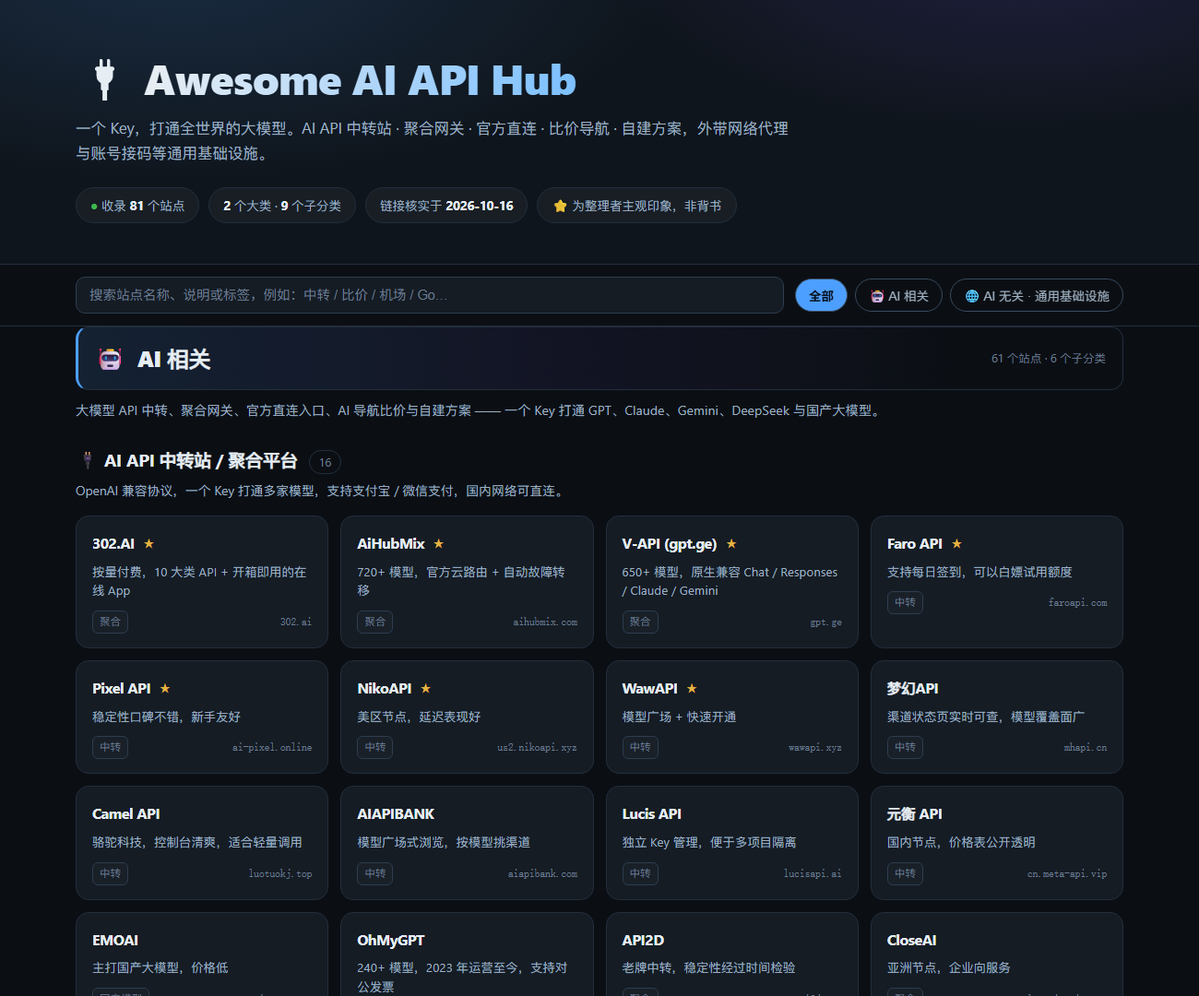
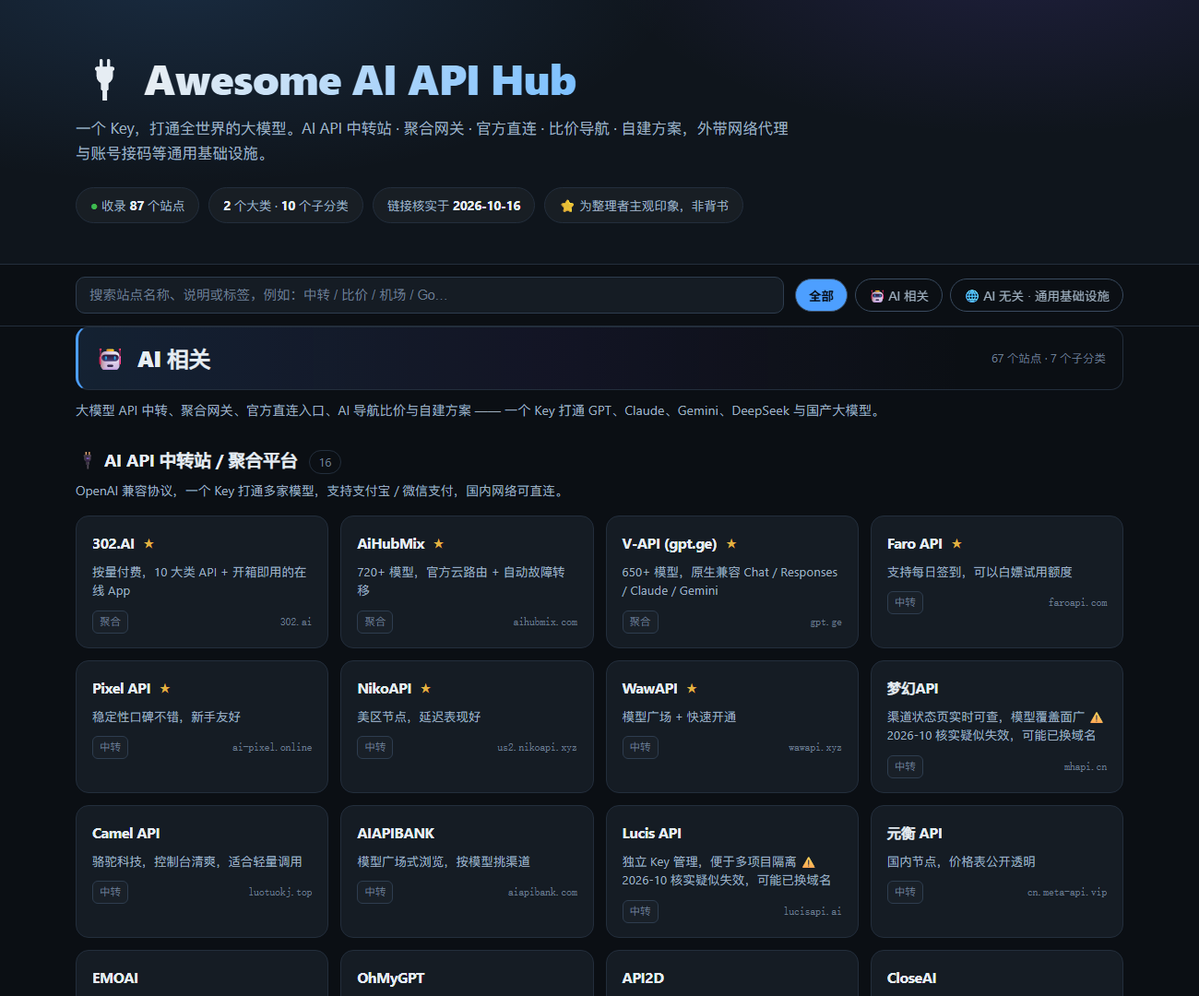
feat: 新增「AI API 检测 · 验真」子分类，收录 7 个掺水/掉包检测站
- 新增检测分类：禾维 AI、真测 Ztest、API-CHECK、模型检测站、API Ranking、
  火眼金睛识AI、智知 API 纯度检测（开源）
- 禾维 AI 从「导航比价」移入「检测验真」（其核心功能为真假检测）
- 全部新增链接经代理实测 200 可达
- 站点总数 81 -> 87，子分类 9 -> 10
- README 中英同步，检测章节附「用临时 Key 测试」安全提示

diff --git a/index.html b/index.html
@@ -146,8 +146,8 @@ footer a:hover{text-decoration:underline}
     <h1>🔌 Awesome AI API Hub</h1>
     <p class="sub">一个 Key，打通全世界的大模型。AI API 中转站 · 聚合网关 · 官方直连 · 比价导航 · 自建方案，外带网络代理与账号接码等通用基础设施。</p>
     <div class="stats">
-      <span class="stat"><span class="dot">●</span> 收录 <b>81</b> 个站点</span>
-      <span class="stat"><b>2</b> 个大类 · <b>9</b> 个子分类</span>
+      <span class="stat"><span class="dot">●</span> 收录 <b>87</b> 个站点</span>
+      <span class="stat"><b>2</b> 个大类 · <b>10</b> 个子分类</span>
       <span class="stat">链接核实于 <b>2026-10-16</b></span>
       <span class="stat">⭐ 为整理者主观印象，非背书</span>
     </div>
@@ -179,7 +179,7 @@ footer a:hover{text-decoration:underline}
 </footer>
 
 <script>
-const DATA = {"meta": {"name": "Awesome AI API Hub", "updated": "2026-10-16", "repo": "https://github.com/Han-maker-wp/awesome-ai-api-hub"}, "groups": [{"id": "ai", "title": "AI 相关", "icon": "🤖", "desc": "大模型 API 中转、聚合网关、官方直连入口、AI 导航比价与自建方案 —— 一个 Key 打通 GPT、Claude、Gemini、DeepSeek 与国产大模型。", "categories": [{"id": "relay", "title": "AI API 中转站 / 聚合平台", "icon": "🔌", "desc": "OpenAI 兼容协议，一个 Key 打通多家模型，支持支付宝 / 微信支付，国内网络可直连。", "items": [{"name": "302.AI", "url": "https://302.ai/", "tag": "聚合", "note": "按量付费，10 大类 API + 开箱即用的在线 App", "star": true}, {"name": "AiHubMix", "url": "https://aihubmix.com/", "tag": "聚合", "note": "720+ 模型，官方云路由 + 自动故障转移", "star": true}, {"name": "V-API (gpt.ge)", "url": "https://gpt.ge/", "tag": "聚合", "note": "650+ 模型，原生兼容 Chat / Responses / Claude / Gemini", "star": true}, {"name": "Faro API", "url": "https://faroapi.com/pricing", "tag": "中转", "note": "支持每日签到，可以白嫖试用额度", "star": true}, {"name": "Pixel API", "url": "https://ai-pixel.online/dashboard", "tag": "中转", "note": "稳定性口碑不错，新手友好", "star": true}, {"name": "NikoAPI", "url": "https://us2.nikoapi.xyz/wallet", "tag": "中转", "note": "美区节点，延迟表现好", "star": true}, {"name": "WawAPI", "url": "https://wawapi.xyz/model-square", "tag": "中转", "note": "模型广场 + 快速开通", "star": true}, {"name": "梦幻API", "url": "https://mhapi.cn/available-channels", "tag": "中转", "note": "渠道状态页实时可查，模型覆盖面广 ⚠ 2026-10 核实疑似失效，可能已换域名", "star": false}, {"name": "Camel API", "url": "https://luotuokj.top/dashboard", "tag": "中转", "note": "骆驼科技，控制台清爽，适合轻量调用", "star": false}, {"name": "AIAPIBANK", "url": "https://aiapibank.com/", "tag": "中转", "note": "模型广场式浏览，按模型挑渠道", "star": false}, {"name": "Lucis API", "url": "https://www.lucisapi.ai/keys", "tag": "中转", "note": "独立 Key 管理，便于多项目隔离 ⚠ 2026-10 核实疑似失效，可能已换域名", "star": false}, {"name": "元衡 API", "url": "https://cn.meta-api.vip/pricing", "tag": "中转", "note": "国内节点，价格表公开透明", "star": false}, {"name": "EMOAI", "url": "https://api.emooo.cc/dashboard", "tag": "国产模型", "note": "主打国产大模型，价格低", "star": false}, {"name": "OhMyGPT", "url": "https://www.ohmygpt.com/", "tag": "聚合", "note": "240+ 模型，2023 年运营至今，支持对公发票", "star": false}, {"name": "API2D", "url": "https://api2d.com/", "tag": "聚合", "note": "老牌中转，稳定性经过时间检验", "star": false}, {"name": "CloseAI", "url": "https://www.closeai-asia.com/", "tag": "聚合", "note": "亚洲节点，企业向服务", "star": false}]}, {"id": "official-cn", "title": "官方直连 · 国内大模型厂商", "icon": "🏢", "desc": "厂商官方控制台。新用户普遍送免费额度，价格最实、最稳，缺点是需要实名认证。", "items": [{"name": "阿里云百炼", "url": "https://bailian.console.aliyun.com/", "tag": "通义", "note": "通义千问全系 + 大量三方模型", "star": true}, {"name": "火山方舟", "url": "https://console.volcengine.com/ark", "tag": "豆包", "note": "豆包系列，价格激进，吞吐高", "star": true}, {"name": "硅基流动 SiliconFlow", "url": "https://cloud.siliconflow.cn/", "tag": "开源模型", "note": "开源模型托管首选，注册即送额度", "star": true}, {"name": "智谱 BigModel", "url": "https://bigmodel.cn/", "tag": "GLM", "note": "GLM 系列，新用户送额度，工具调用强", "star": true}, {"name": "Moonshot Kimi", "url": "https://platform.moonshot.cn/", "tag": "Kimi", "note": "Kimi 系列，超长上下文", "star": true}, {"name": "商汤 SenseNova", "url": "https://platform.sensenova.cn/", "tag": "日日新", "note": "日日新大模型，多模态能力完整", "star": false}, {"name": "百度千帆", "url": "https://console.bce.baidu.com/qianfan/", "tag": "文心", "note": "文心一言 + ERNIE 全系", "star": false}, {"name": "腾讯混元", "url": "https://console.cloud.tencent.com/hunyuan", "tag": "混元", "note": "混元大模型，腾讯云生态集成", "star": false}, {"name": "讯飞星火", "url": "https://console.xfyun.cn/", "tag": "星火", "note": "星火大模型，语音能力强", "star": false}, {"name": "MiniMax", "url": "https://platform.minimaxi.com/", "tag": "MiniMax", "note": "abab 系列，长文本与语音出色", "star": false}, {"name": "阶跃星辰 StepFun", "url": "https://platform.stepfun.com/", "tag": "Step", "note": "Step 系列，多模态迭代快", "star": false}, {"name": "零一万物", "url": "https://platform.lingyiwanwu.com/", "tag": "Yi", "note": "Yi 系列，性价比高", "star": false}, {"name": "无问芯穹 Infini-AI", "url": "https://cloud.infini-ai.com/", "tag": "算力", "note": "算力 + 模型一体，异构调度", "star": false}, {"name": "PPIO 派欧云", "url": "https://ppio.com/", "tag": "算力", "note": "分布式 GPU 云，模型 API 便宜", "star": false}]}, {"id": "official-global", "title": "官方直连 · 国际平台", "icon": "🌍", "desc": "国际主流聚合与推理平台。模型最新、协议最标准，部分需要海外网络与外币卡。", "items": [{"name": "OpenRouter", "url": "https://openrouter.ai/", "tag": "聚合", "note": "全球最大模型路由平台，一个 Key 全模型", "star": true}, {"name": "Groq", "url": "https://console.groq.com/", "tag": "推理", "note": "LPU 极速推理，免费额度大方", "star": true}, {"name": "Together AI", "url": "https://api.together.xyz/", "tag": "推理", "note": "开源模型推理快，价格低", "star": false}, {"name": "Fireworks AI", "url": "https://fireworks.ai/", "tag": "推理", "note": "低延迟推理，适合生产环境", "star": false}, {"name": "DeepInfra", "url": "https://deepinfra.com/", "tag": "推理", "note": "按 token 计费，开源模型齐全", "star": false}, {"name": "Novita AI", "url": "https://novita.ai/", "tag": "推理", "note": "模型多、注册送额度", "star": false}, {"name": "Hyperbolic", "url": "https://hyperbolic.xyz/", "tag": "推理", "note": "去中心化算力，价格有优势", "star": false}, {"name": "Cerebras", "url": "https://cloud.cerebras.ai/", "tag": "推理", "note": "晶圆级芯片，速度惊人", "star": false}, {"name": "Replicate", "url": "https://replicate.com/", "tag": "托管", "note": "开源模型一键跑，图像 / 视频丰富", "star": false}, {"name": "Hugging Face Inference Providers", "url": "https://huggingface.co/docs/inference-providers", "tag": "托管", "note": "多家推理服务商统一入口", "star": false}, {"name": "Cloudflare Workers AI", "url": "https://developers.cloudflare.com/workers-ai/", "tag": "边缘", "note": "边缘推理，免费额度可白嫖", "star": false}, {"name": "Poe", "url": "https://poe.com/", "tag": "聚合", "note": "Quora 出品，聊天式多模型聚合", "star": false}]}, {"id": "nav", "title": "AI 导航 · 比价 · 评测", "icon": "🧭", "desc": "不知道选哪家？先上这些站比一比 —— 实时报价、渠道在线率、掺水率、跑路预警都在这儿。", "items": [{"name": "TokenNav", "url": "https://tokennav.cc/", "tag": "导航", "note": "收录 200+ 中转站，含价格 / 支付方式 / 在线率", "star": true}, {"name": "禾维 AI", "url": "https://www.hvoy.ai/", "tag": "排名+检测", "note": "中转站排名 + API 真假检测（掺水率、延迟）", "star": true}, {"name": "PriceAI", "url": "https://priceai.cc/", "tag": "比价", "note": "低价卡网订阅与中转 API 比价雷达", "star": true}, {"name": "OpenPrice", "url": "https://www.openprice.cc/card-products", "tag": "比价", "note": "聚合 280+ 渠道商报价，含最低价与在售数", "star": true}, {"name": "Aibijia", "url": "https://aibijia.org/", "tag": "比价", "note": "AI 订阅一键比价，帮你找便宜 Token", "star": true}, {"name": "卡网大全", "url": "https://cardnav.xyz/", "tag": "导航", "note": "一站式大模型账号购买导航", "star": true}, {"name": "AI 订阅与资源聚合导航", "url": "https://cheap-ai.uk/", "tag": "导航", "note": "GPT / Claude / Gemini / Grok 一站发现", "star": false}, {"name": "AI 工具集", "url": "https://ai-bot.cn/", "tag": "导航", "note": "国内收录最全的 AI 工具导航", "star": false}, {"name": "AIGC 工具导航", "url": "https://www.aigc.cn/", "tag": "导航", "note": "生成式 AI 工具分类检索", "star": false}, {"name": "WayToAGI", "url": "https://www.waytoagi.com/", "tag": "知识库", "note": "飞书知识库起家的 AGI 学习社区", "star": false}]}, {"id": "ai-account", "title": "AI 账号 · 订阅服务", "icon": "🛒", "desc": "AI 会员账号与订阅的自助购买渠道。均为第三方商家，不保证可用性与售后，请自行评估风险。", "items": [{"name": "爱窝啦 AI 账号店", "url": "https://www.aivora.cn/", "tag": "账号", "note": "Cursor / ChatGPT / Claude / Gemini 自助购买", "star": false}, {"name": "AIProbe", "url": "https://aiprobe.top/", "tag": "账号+接码", "note": "AI 账号与接码二合一", "star": false}, {"name": "AI 云智聪聪的小店", "url": "https://pay.ldxp.cn/shop/Z6I0VZ0Q", "tag": "发卡", "note": "链动小铺自动发货", "star": false}]}, {"id": "selfhost", "title": "自建网关 · 开源自部署", "icon": "🛠", "desc": "不想把 Key 交给别人？自己搭一个中转：多 Key 轮询、多渠道负载、统一计费，全在自己手里。", "items": [{"name": "one-api", "url": "https://github.com/songquanpeng/one-api", "tag": "Go · 37k★", "note": "经典 OpenAI 接口聚合管理系统，支持 30+ 上游，单文件 Docker 一键部署", "star": true}, {"name": "new-api", "url": "https://github.com/QuantumNous/new-api", "tag": "Go · 50k★", "note": "one-api 增强分支，UI 更现代，支持三种协议互转", "star": true}, {"name": "LiteLLM", "url": "https://github.com/BerriAI/litellm", "tag": "Python · 61k★", "note": "100+ LLM 统一调用 + 代理网关，带成本追踪与负载均衡", "star": true}, {"name": "uni-api", "url": "https://github.com/yym68686/uni-api", "tag": "Python", "note": "YAML 配置多后端，轻量好部署", "star": false}, {"name": "gpt-load", "url": "https://github.com/tbphp/gpt-load", "tag": "Go · 7k★", "note": "多 Key / 多凭据轮询，含调度容错与用量统计", "star": false}, {"name": "Portkey Gateway", "url": "https://github.com/Portkey-AI/gateway", "tag": "TS · 13k★", "note": "生产级 AI 网关，1600+ 模型路由 + 50+ 护栏", "star": false}]}]}, {"id": "general", "title": "AI 无关 · 通用基础设施", "icon": "🌐", "desc": "跟大模型没直接关系，但都是上面那些服务的前置条件：网络出口、IP 质量、账号与接码。第三方商家为主，风险自负。", "categories": [{"id": "proxy", "title": "网络代理 · 机场 / VPN", "icon": "🚀", "desc": "跨境网络出口。价格差异极大、跑路率也高，建议月付试水、不要年付赌命。", "items": [{"name": "Webshare", "url": "https://dashboard.webshare.io/staticResidential/pricing", "tag": "静态住宅IP", "note": "静态住宅代理 IP，按量或包月", "star": false}, {"name": "Yue.to 悦通", "url": "https://my.yue.to/", "tag": "机场", "note": "流量大，适合中重度使用", "star": false}, {"name": "GLaDOS", "url": "https://glados-facility.com/", "tag": "机场", "note": "纯净 IP + 教育优惠，老牌服务", "star": false}, {"name": "星辰VPN", "url": "https://xcvpn.us/", "tag": "机场", "note": "家宽节点，约 17 元/月", "star": false}, {"name": "iKuuu VPN", "url": "https://ikuuu.win/", "tag": "机场", "note": "免费 / 低价路线，适合轻度使用", "star": false}, {"name": "Mitce", "url": "https://mitce.io/", "tag": "机场", "note": "低价小流量套餐", "star": false}, {"name": "FlyBit", "url": "https://fb.fastfastfast.buzz/", "tag": "机场", "note": "约 15 元/月，家宽节点 ⚠ 2026-10 核实疑似失效，可能已换域名", "star": false}, {"name": "良心云", "url": "https://xn--9kqz23b19z.com/", "tag": "机场", "note": "价格亲民的机场", "star": false}, {"name": "寰宇云", "url": "https://hyy.52kok.cn/", "tag": "机场", "note": "原生 IP，年付约 79 元", "star": false}, {"name": "极连云", "url": "https://bhjsehj3u.jilianat.homes/", "tag": "机场", "note": "原生 IP，年付约 96 元（入口为随机子域名，主域名不解析）", "star": false}, {"name": "TAG", "url": "https://honven.l49.net/", "tag": "机场", "note": "含家宽节点，年付约 162 元", "star": false}, {"name": "筋斗云", "url": "https://yongjichang.com/", "tag": "机场", "note": "约 17 元/月，有第三方评测页可参考", "star": false}, {"name": "机场导航站", "url": "https://vpsknow.com/airport-recommendations", "tag": "导航", "note": "机场横向评测与推荐汇总", "star": false}]}, {"id": "nettool", "title": "网络工具 · IP 检测 · Cloudflare", "icon": "🔧", "desc": "验证出口质量、优选节点、搭建自己的隧道。选机场之前先用这些工具看清 IP 底细。", "items": [{"name": "Ping0", "url": "https://www.ping0.cc/", "tag": "IP 检测", "note": "IP 纯净度 / 风险分检测，查是否被标记", "star": true}, {"name": "CF 优选域名汇总", "url": "https://cf.090227.xyz/", "tag": "CF 优选", "note": "Cloudflare 优选 IP / 域名汇总", "star": false}, {"name": "BestCF · CF EDT 导航", "url": "https://bestcf.pages.dev/", "tag": "CF 优选", "note": "Cloudflare EdgeTunnel 相关导航", "star": false}, {"name": "Cloudflare Dashboard", "url": "https://dash.cloudflare.com/", "tag": "控制台", "note": "Pages / Workers / Zero Trust 管理后台", "star": false}]}, {"id": "account", "title": "通用账号 · 接码 · 号池", "icon": "📱", "desc": "海外账号、短信验证码代收、号池交易。⚠ 可能违反目标平台服务条款，第三方商家无售后保障。", "items": [{"name": "账号星球", "url": "https://accboyytbptech.acceboy.com/", "tag": "账号", "note": "苹果 ID / 国外 ID / Telegram 账号", "star": false}, {"name": "极光动能", "url": "https://sms.iamu.eu.org/", "tag": "接码", "note": "全球短信验证码服务", "star": false}, {"name": "NexusVault 号池交易台", "url": "https://nvtokens.com/", "tag": "号池", "note": "号池交易与额度管理", "star": false}]}]}]};
+const DATA = {"meta": {"name": "Awesome AI API Hub", "updated": "2026-10-16", "repo": "https://github.com/Han-maker-wp/awesome-ai-api-hub"}, "groups": [{"id": "ai", "title": "AI 相关", "icon": "🤖", "desc": "大模型 API 中转、聚合网关、官方直连入口、AI 导航比价与自建方案 —— 一个 Key 打通 GPT、Claude、Gemini、DeepSeek 与国产大模型。", "categories": [{"id": "relay", "title": "AI API 中转站 / 聚合平台", "icon": "🔌", "desc": "OpenAI 兼容协议，一个 Key 打通多家模型，支持支付宝 / 微信支付，国内网络可直连。", "items": [{"name": "302.AI", "url": "https://302.ai/", "tag": "聚合", "note": "按量付费，10 大类 API + 开箱即用的在线 App", "star": true}, {"name": "AiHubMix", "url": "https://aihubmix.com/", "tag": "聚合", "note": "720+ 模型，官方云路由 + 自动故障转移", "star": true}, {"name": "V-API (gpt.ge)", "url": "https://gpt.ge/", "tag": "聚合", "note": "650+ 模型，原生兼容 Chat / Responses / Claude / Gemini", "star": true}, {"name": "Faro API", "url": "https://faroapi.com/pricing", "tag": "中转", "note": "支持每日签到，可以白嫖试用额度", "star": true}, {"name": "Pixel API", "url": "https://ai-pixel.online/dashboard", "tag": "中转", "note": "稳定性口碑不错，新手友好", "star": true}, {"name": "NikoAPI", "url": "https://us2.nikoapi.xyz/wallet", "tag": "中转", "note": "美区节点，延迟表现好", "star": true}, {"name": "WawAPI", "url": "https://wawapi.xyz/model-square", "tag": "中转", "note": "模型广场 + 快速开通", "star": true}, {"name": "梦幻API", "url": "https://mhapi.cn/available-channels", "tag": "中转", "note": "渠道状态页实时可查，模型覆盖面广 ⚠ 2026-10 核实疑似失效，可能已换域名", "star": false}, {"name": "Camel API", "url": "https://luotuokj.top/dashboard", "tag": "中转", "note": "骆驼科技，控制台清爽，适合轻量调用", "star": false}, {"name": "AIAPIBANK", "url": "https://aiapibank.com/", "tag": "中转", "note": "模型广场式浏览，按模型挑渠道", "star": false}, {"name": "Lucis API", "url": "https://www.lucisapi.ai/keys", "tag": "中转", "note": "独立 Key 管理，便于多项目隔离 ⚠ 2026-10 核实疑似失效，可能已换域名", "star": false}, {"name": "元衡 API", "url": "https://cn.meta-api.vip/pricing", "tag": "中转", "note": "国内节点，价格表公开透明", "star": false}, {"name": "EMOAI", "url": "https://api.emooo.cc/dashboard", "tag": "国产模型", "note": "主打国产大模型，价格低", "star": false}, {"name": "OhMyGPT", "url": "https://www.ohmygpt.com/", "tag": "聚合", "note": "240+ 模型，2023 年运营至今，支持对公发票", "star": false}, {"name": "API2D", "url": "https://api2d.com/", "tag": "聚合", "note": "老牌中转，稳定性经过时间检验", "star": false}, {"name": "CloseAI", "url": "https://www.closeai-asia.com/", "tag": "聚合", "note": "亚洲节点，企业向服务", "star": false}]}, {"id": "official-cn", "title": "官方直连 · 国内大模型厂商", "icon": "🏢", "desc": "厂商官方控制台。新用户普遍送免费额度，价格最实、最稳，缺点是需要实名认证。", "items": [{"name": "阿里云百炼", "url": "https://bailian.console.aliyun.com/", "tag": "通义", "note": "通义千问全系 + 大量三方模型", "star": true}, {"name": "火山方舟", "url": "https://console.volcengine.com/ark", "tag": "豆包", "note": "豆包系列，价格激进，吞吐高", "star": true}, {"name": "硅基流动 SiliconFlow", "url": "https://cloud.siliconflow.cn/", "tag": "开源模型", "note": "开源模型托管首选，注册即送额度", "star": true}, {"name": "智谱 BigModel", "url": "https://bigmodel.cn/", "tag": "GLM", "note": "GLM 系列，新用户送额度，工具调用强", "star": true}, {"name": "Moonshot Kimi", "url": "https://platform.moonshot.cn/", "tag": "Kimi", "note": "Kimi 系列，超长上下文", "star": true}, {"name": "商汤 SenseNova", "url": "https://platform.sensenova.cn/", "tag": "日日新", "note": "日日新大模型，多模态能力完整", "star": false}, {"name": "百度千帆", "url": "https://console.bce.baidu.com/qianfan/", "tag": "文心", "note": "文心一言 + ERNIE 全系", "star": false}, {"name": "腾讯混元", "url": "https://console.cloud.tencent.com/hunyuan", "tag": "混元", "note": "混元大模型，腾讯云生态集成", "star": false}, {"name": "讯飞星火", "url": "https://console.xfyun.cn/", "tag": "星火", "note": "星火大模型，语音能力强", "star": false}, {"name": "MiniMax", "url": "https://platform.minimaxi.com/", "tag": "MiniMax", "note": "abab 系列，长文本与语音出色", "star": false}, {"name": "阶跃星辰 StepFun", "url": "https://platform.stepfun.com/", "tag": "Step", "note": "Step 系列，多模态迭代快", "star": false}, {"name": "零一万物", "url": "https://platform.lingyiwanwu.com/", "tag": "Yi", "note": "Yi 系列，性价比高", "star": false}, {"name": "无问芯穹 Infini-AI", "url": "https://cloud.infini-ai.com/", "tag": "算力", "note": "算力 + 模型一体，异构调度", "star": false}, {"name": "PPIO 派欧云", "url": "https://ppio.com/", "tag": "算力", "note": "分布式 GPU 云，模型 API 便宜", "star": false}]}, {"id": "official-global", "title": "官方直连 · 国际平台", "icon": "🌍", "desc": "国际主流聚合与推理平台。模型最新、协议最标准，部分需要海外网络与外币卡。", "items": [{"name": "OpenRouter", "url": "https://openrouter.ai/", "tag": "聚合", "note": "全球最大模型路由平台，一个 Key 全模型", "star": true}, {"name": "Groq", "url": "https://console.groq.com/", "tag": "推理", "note": "LPU 极速推理，免费额度大方", "star": true}, {"name": "Together AI", "url": "https://api.together.xyz/", "tag": "推理", "note": "开源模型推理快，价格低", "star": false}, {"name": "Fireworks AI", "url": "https://fireworks.ai/", "tag": "推理", "note": "低延迟推理，适合生产环境", "star": false}, {"name": "DeepInfra", "url": "https://deepinfra.com/", "tag": "推理", "note": "按 token 计费，开源模型齐全", "star": false}, {"name": "Novita AI", "url": "https://novita.ai/", "tag": "推理", "note": "模型多、注册送额度", "star": false}, {"name": "Hyperbolic", "url": "https://hyperbolic.xyz/", "tag": "推理", "note": "去中心化算力，价格有优势", "star": false}, {"name": "Cerebras", "url": "https://cloud.cerebras.ai/", "tag": "推理", "note": "晶圆级芯片，速度惊人", "star": false}, {"name": "Replicate", "url": "https://replicate.com/", "tag": "托管", "note": "开源模型一键跑，图像 / 视频丰富", "star": false}, {"name": "Hugging Face Inference Providers", "url": "https://huggingface.co/docs/inference-providers", "tag": "托管", "note": "多家推理服务商统一入口", "star": false}, {"name": "Cloudflare Workers AI", "url": "https://developers.cloudflare.com/workers-ai/", "tag": "边缘", "note": "边缘推理，免费额度可白嫖", "star": false}, {"name": "Poe", "url": "https://poe.com/", "tag": "聚合", "note": "Quora 出品，聊天式多模型聚合", "star": false}]}, {"id": "detect", "title": "AI API 检测 · 验真", "icon": "🔬", "desc": "中转站最大的坑是「掉包降智」——你付 GPT-5 的钱，拿到的可能是蒸馏小模型。下面这些站用真实请求探针实测模型真伪、掺水率、扣费是否对得上。⚠ 检测请务必用临时 Key。", "items": [{"name": "禾维 AI", "url": "https://www.hvoy.ai/", "tag": "排名+检测", "note": "中转站排名 + API 真假检测（掺水率、延迟、在线率一屏看完）", "star": true}, {"name": "真测 Ztest", "url": "https://ztest.cc/", "tag": "探针检测", "note": "25~40 项探针实测模型真伪与响应质量，产出可信度排行", "star": true}, {"name": "API-CHECK", "url": "https://api-check.com/", "tag": "检测", "note": "查假模型、Token 注入、Prompt 提取、指令覆盖、响应指纹", "star": true}, {"name": "模型检测站", "url": "https://model-check.org/", "tag": "检测", "note": "排查模型掉包、掺水冒充、流式中断、工具调用阉割", "star": true}, {"name": "API Ranking", "url": "https://apiranking.com/", "tag": "实测排行", "note": "139+ 中转站实测：真假、扣费对账、缓存命中、降智测试", "star": true}, {"name": "火眼金睛识 AI", "url": "http://eagle.videogen.art/", "tag": "检测", "note": "纯前端处理，专项测试鉴别 Claude / OpenAI 是否被换模型", "star": false}, {"name": "智知 API 纯度检测", "url": "https://github.com/businesszhizhiai/zhizhi-api-purity", "tag": "开源", "note": "开源的 API 纯度检测站，可自行部署，含接口稳定性记录", "star": false}]}, {"id": "nav", "title": "AI 导航 · 比价 · 评测", "icon": "🧭", "desc": "不知道选哪家？先上这些站比一比 —— 实时报价、渠道在线率、掺水率、跑路预警都在这儿。", "items": [{"name": "TokenNav", "url": "https://tokennav.cc/", "tag": "导航", "note": "收录 200+ 中转站，含价格 / 支付方式 / 在线率", "star": true}, {"name": "PriceAI", "url": "https://priceai.cc/", "tag": "比价", "note": "低价卡网订阅与中转 API 比价雷达", "star": true}, {"name": "OpenPrice", "url": "https://www.openprice.cc/card-products", "tag": "比价", "note": "聚合 280+ 渠道商报价，含最低价与在售数", "star": true}, {"name": "Aibijia", "url": "https://aibijia.org/", "tag": "比价", "note": "AI 订阅一键比价，帮你找便宜 Token", "star": true}, {"name": "卡网大全", "url": "https://cardnav.xyz/", "tag": "导航", "note": "一站式大模型账号购买导航", "star": true}, {"name": "AI 订阅与资源聚合导航", "url": "https://cheap-ai.uk/", "tag": "导航", "note": "GPT / Claude / Gemini / Grok 一站发现", "star": false}, {"name": "AI 工具集", "url": "https://ai-bot.cn/", "tag": "导航", "note": "国内收录最全的 AI 工具导航", "star": false}, {"name": "AIGC 工具导航", "url": "https://www.aigc.cn/", "tag": "导航", "note": "生成式 AI 工具分类检索", "star": false}, {"name": "WayToAGI", "url": "https://www.waytoagi.com/", "tag": "知识库", "note": "飞书知识库起家的 AGI 学习社区", "star": false}]}, {"id": "ai-account", "title": "AI 账号 · 订阅服务", "icon": "🛒", "desc": "AI 会员账号与订阅的自助购买渠道。均为第三方商家，不保证可用性与售后，请自行评估风险。", "items": [{"name": "爱窝啦 AI 账号店", "url": "https://www.aivora.cn/", "tag": "账号", "note": "Cursor / ChatGPT / Claude / Gemini 自助购买", "star": false}, {"name": "AIProbe", "url": "https://aiprobe.top/", "tag": "账号+接码", "note": "AI 账号与接码二合一", "star": false}, {"name": "AI 云智聪聪的小店", "url": "https://pay.ldxp.cn/shop/Z6I0VZ0Q", "tag": "发卡", "note": "链动小铺自动发货", "star": false}]}, {"id": "selfhost", "title": "自建网关 · 开源自部署", "icon": "🛠", "desc": "不想把 Key 交给别人？自己搭一个中转：多 Key 轮询、多渠道负载、统一计费，全在自己手里。", "items": [{"name": "one-api", "url": "https://github.com/songquanpeng/one-api", "tag": "Go · 37k★", "note": "经典 OpenAI 接口聚合管理系统，支持 30+ 上游，单文件 Docker 一键部署", "star": true}, {"name": "new-api", "url": "https://github.com/QuantumNous/new-api", "tag": "Go · 50k★", "note": "one-api 增强分支，UI 更现代，支持三种协议互转", "star": true}, {"name": "LiteLLM", "url": "https://github.com/BerriAI/litellm", "tag": "Python · 61k★", "note": "100+ LLM 统一调用 + 代理网关，带成本追踪与负载均衡", "star": true}, {"name": "uni-api", "url": "https://github.com/yym68686/uni-api", "tag": "Python", "note": "YAML 配置多后端，轻量好部署", "star": false}, {"name": "gpt-load", "url": "https://github.com/tbphp/gpt-load", "tag": "Go · 7k★", "note": "多 Key / 多凭据轮询，含调度容错与用量统计", "star": false}, {"name": "Portkey Gateway", "url": "https://github.com/Portkey-AI/gateway", "tag": "TS · 13k★", "note": "生产级 AI 网关，1600+ 模型路由 + 50+ 护栏", "star": false}]}]}, {"id": "general", "title": "AI 无关 · 通用基础设施", "icon": "🌐", "desc": "跟大模型没直接关系，但都是上面那些服务的前置条件：网络出口、IP 质量、账号与接码。第三方商家为主，风险自负。", "categories": [{"id": "proxy", "title": "网络代理 · 机场 / VPN", "icon": "🚀", "desc": "跨境网络出口。价格差异极大、跑路率也高，建议月付试水、不要年付赌命。", "items": [{"name": "Webshare", "url": "https://dashboard.webshare.io/staticResidential/pricing", "tag": "静态住宅IP", "note": "静态住宅代理 IP，按量或包月", "star": false}, {"name": "Yue.to 悦通", "url": "https://my.yue.to/", "tag": "机场", "note": "流量大，适合中重度使用", "star": false}, {"name": "GLaDOS", "url": "https://glados-facility.com/", "tag": "机场", "note": "纯净 IP + 教育优惠，老牌服务", "star": false}, {"name": "星辰VPN", "url": "https://xcvpn.us/", "tag": "机场", "note": "家宽节点，约 17 元/月", "star": false}, {"name": "iKuuu VPN", "url": "https://ikuuu.win/", "tag": "机场", "note": "免费 / 低价路线，适合轻度使用", "star": false}, {"name": "Mitce", "url": "https://mitce.io/", "tag": "机场", "note": "低价小流量套餐", "star": false}, {"name": "FlyBit", "url": "https://fb.fastfastfast.buzz/", "tag": "机场", "note": "约 15 元/月，家宽节点 ⚠ 2026-10 核实疑似失效，可能已换域名", "star": false}, {"name": "良心云", "url": "https://xn--9kqz23b19z.com/", "tag": "机场", "note": "价格亲民的机场", "star": false}, {"name": "寰宇云", "url": "https://hyy.52kok.cn/", "tag": "机场", "note": "原生 IP，年付约 79 元", "star": false}, {"name": "极连云", "url": "https://bhjsehj3u.jilianat.homes/", "tag": "机场", "note": "原生 IP，年付约 96 元（入口为随机子域名，主域名不解析）", "star": false}, {"name": "TAG", "url": "https://honven.l49.net/", "tag": "机场", "note": "含家宽节点，年付约 162 元", "star": false}, {"name": "筋斗云", "url": "https://yongjichang.com/", "tag": "机场", "note": "约 17 元/月，有第三方评测页可参考", "star": false}, {"name": "机场导航站", "url": "https://vpsknow.com/airport-recommendations", "tag": "导航", "note": "机场横向评测与推荐汇总", "star": false}]}, {"id": "nettool", "title": "网络工具 · IP 检测 · Cloudflare", "icon": "🔧", "desc": "验证出口质量、优选节点、搭建自己的隧道。选机场之前先用这些工具看清 IP 底细。", "items": [{"name": "Ping0", "url": "https://www.ping0.cc/", "tag": "IP 检测", "note": "IP 纯净度 / 风险分检测，查是否被标记", "star": true}, {"name": "CF 优选域名汇总", "url": "https://cf.090227.xyz/", "tag": "CF 优选", "note": "Cloudflare 优选 IP / 域名汇总", "star": false}, {"name": "BestCF · CF EDT 导航", "url": "https://bestcf.pages.dev/", "tag": "CF 优选", "note": "Cloudflare EdgeTunnel 相关导航", "star": false}, {"name": "Cloudflare Dashboard", "url": "https://dash.cloudflare.com/", "tag": "控制台", "note": "Pages / Workers / Zero Trust 管理后台", "star": false}]}, {"id": "account", "title": "通用账号 · 接码 · 号池", "icon": "📱", "desc": "海外账号、短信验证码代收、号池交易。⚠ 可能违反目标平台服务条款，第三方商家无售后保障。", "items": [{"name": "账号星球", "url": "https://accboyytbptech.acceboy.com/", "tag": "账号", "note": "苹果 ID / 国外 ID / Telegram 账号", "star": false}, {"name": "极光动能", "url": "https://sms.iamu.eu.org/", "tag": "接码", "note": "全球短信验证码服务", "star": false}, {"name": "NexusVault 号池交易台", "url": "https://nvtokens.com/", "tag": "号池", "note": "号池交易与额度管理", "star": false}]}]}]};
 
 const $main = document.getElementById('main');
 const $q = document.getElementById('q');

diff --git a/README.en.md b/README.en.md
@@ -53,7 +53,8 @@ This repo organizes those entry points **into two top-level groups**, and marks 
 | [🔌 Relay Stations / Aggregators](#-relay-stations--aggregators) | 16, reachable from China, Alipay-friendly | Solo devs, small teams |
 | [🏢 Official · Chinese Vendors](#-official--chinese-vendors) | 14 official consoles, free credits | Compliance, invoicing, stability |
 | [🌍 Official · Global Platforms](#-official--global-platforms) | 12, newest model coverage | Overseas network + foreign card |
-| [🧭 AI Directories · Comparison](#-ai-directories--comparison) | 10, live pricing and uptime | Do your homework before picking |
+| [🔬 Detection · Verification](#-ai-api-detection--verification) | 7, test real model identity and dilution | **Verify before you pay** |
+| [🧭 AI Directories · Comparison](#-ai-directories--comparison) | 9, live pricing and uptime | Do your homework before picking |
 | [🛒 AI Accounts · Subscriptions](#-ai-accounts--subscriptions) | 3, buy AI memberships | When you need a ready account |
 | [🛠 Self-Hosted Gateways](#-self-hosted-gateways) | 6 open-source, deploy yourself | When you don't want to hand over keys |
 
@@ -156,14 +157,29 @@ Tools like Claude Code, Codex, Cline, Cherry Studio and LobeChat all accept a **
 | [Cloudflare Workers AI](https://developers.cloudflare.com/workers-ai/) | Edge inference, free tier | `Edge` |
 | [Poe](https://poe.com/) | By Quora, chat-style multi-model access | `Aggregator` |
 
+## 🔬 AI API Detection · Verification
+
+> The biggest trap with relay stations is **"swapping and dumbing down"** — you pay for GPT-5 and get a distilled small model. Some third-party reviews claim nearly half of relay endpoints do this to some degree.
+> **Verify before you pay.**
+> ⚠ Always test with a **temporary key**, never your main key, on an unknown station.
+
+| Name | Notes | Tag |
+| :--- | :--- | :--- |
+| [**Hvoy AI**](https://www.hvoy.ai/) ⭐ | Station rankings + API authenticity testing (dilution, latency, uptime) | `Ranking+Test` |
+| [**Ztest**](https://ztest.cc/) ⭐ | 25–40 probes measure model authenticity and response quality; publishes a trust ranking | `Probe` |
+| [**API-CHECK**](https://api-check.com/) ⭐ | Detects fake models, token injection, prompt extraction, instruction override, response fingerprinting | `Check` |
+| [**Model-Check**](https://model-check.org/) ⭐ | Finds model swapping, dilution, stream breaks, crippled tool calling | `Check` |
+| [**API Ranking**](https://apiranking.com/) ⭐ | 139+ stations tested: authenticity, billing reconciliation, cache hits, degradation | `Benchmark` |
+| [火眼金睛识 AI](http://eagle.videogen.art/) | Client-side only; dedicated tests to spot swapped Claude / OpenAI models | `Check` |
+| [Zhizhi API Purity](https://github.com/businesszhizhiai/zhizhi-api-purity) | Open-source purity checker you can self-host, with stability logging | `Open source` |
+
 ## 🧭 AI Directories · Comparison
 
-> Not sure which one to pick? Compare first — live pricing, uptime, dilution rate, shutdown warnings.
+> Not sure which one to pick? Compare first — live pricing, uptime, shutdown warnings.
 
 | Name | Notes | Tag |
 | :--- | :--- | :--- |
 | [**TokenNav**](https://tokennav.cc/) ⭐ | 200+ stations with price / payment / uptime comparison | `Directory` |
-| [**Hvoy AI**](https://www.hvoy.ai/) ⭐ | Station rankings + API authenticity testing | `Ranking+Test` |
 | [**PriceAI**](https://priceai.cc/) ⭐ | Price radar for cheap subscriptions and relay APIs | `Compare` |
 | [**OpenPrice**](https://www.openprice.cc/card-products) ⭐ | Aggregates 280+ vendors, lowest price and stock counts | `Compare` |
 | [**Aibijia**](https://aibijia.org/) ⭐ | One-click subscription comparison | `Compare` |
@@ -298,6 +314,7 @@ python tools/gen_site.py      # regenerate the navigator page
 
 | Date | Change |
 | :--- | :--- |
+| 2026-10-16 | Added **🔬 AI API Detection · Verification** category (7 checkers) to counter "swapping and dumbing down"; **87** entries / 10 categories total |
 | 2026-10-16 | Re-verified all **81 links** through a real proxy: **75 reachable**. Flagged 3 likely-dead entries (梦幻API / Lucis API / FlyBit), fixed the 极连云 entry domain |
 | 2026-10-16 | **Restructured into two top-level groups**: 🤖 AI-related (61) + 🌐 Non-AI · General Infrastructure (20) — 81 entries across 9 categories; added proxy, network-tool and account sections |
 | 2026-10-16 | Initial release, 64 entries. Fixed `new-api` → `QuantumNous/new-api` and `V3 API` → `gpt.ge` migrations |

diff --git a/README.md b/README.md
@@ -53,7 +53,8 @@
 | [🔌 中转站 / 聚合平台](#-ai-api-中转站--聚合平台) | 16 个，国内可直连，支付宝充值 | 个人开发者、小团队、快速验证 |
 | [🏢 官方直连 · 国内厂商](#-官方直连--国内大模型厂商) | 14 个，官方控制台，注册送额度 | 要合规、要发票、要稳定性 |
 | [🌍 官方直连 · 国际平台](#-官方直连--国际平台) | 12 个，模型最新最全 | 有海外网络与外币卡的用户 |
-| [🧭 AI 导航 · 比价 · 评测](#-ai-导航--比价--评测) | 10 个，实时报价与在线率 | 选型前做功课，避坑 |
+| [🔬 检测 · 验真](#-ai-api-检测--验真) | 7 个，实测模型真伪与掺水率 | **花钱之前先验货** |
+| [🧭 AI 导航 · 比价 · 评测](#-ai-导航--比价--评测) | 9 个，实时报价与在线率 | 选型前做功课，避坑 |
 | [🛒 AI 账号 · 订阅服务](#-ai-账号--订阅服务) | 3 个，AI 会员账号自助购买 | 需要成品账号的场景 |
 | [🛠 自建网关](#-自建网关--开源自部署) | 6 个，开源自部署 | 不想把 Key 交给别人 |
 
@@ -156,15 +157,29 @@ print(resp.choices[0].message.content)
 | [Cloudflare Workers AI](https://developers.cloudflare.com/workers-ai/) | 边缘推理，免费额度可白嫖 | `边缘` |
 | [Poe](https://poe.com/) | Quora 出品，聊天式多模型聚合 | `聚合` |
 
+## 🔬 AI API 检测 · 验真
+
+> 中转站最大的坑是「掉包降智」——你付 GPT-5 的钱，拿到的可能是蒸馏小模型。有第三方横评称近半数中转端点存在不同程度的掉包。
+> **花钱之前先验货。**
+> ⚠ 检测时务必使用**临时 Key**，不要拿主 Key 去测来源不明的站点。
+
+| 名称 | 说明 | 标签 |
+| :--- | :--- | :--- |
+| [**禾维 AI**](https://www.hvoy.ai/) ⭐ | 中转站排名 + API 真假检测（掺水率、延迟、在线率一屏看完） | `排名+检测` |
+| [**真测 Ztest**](https://ztest.cc/) ⭐ | 25~40 项探针实测模型真伪与响应质量，产出可信度排行 | `探针检测` |
+| [**API-CHECK**](https://api-check.com/) ⭐ | 查假模型、Token 注入、Prompt 提取、指令覆盖、响应指纹 | `检测` |
+| [**模型检测站**](https://model-check.org/) ⭐ | 排查模型掉包、掺水冒充、流式中断、工具调用阉割 | `检测` |
+| [**API Ranking**](https://apiranking.com/) ⭐ | 139+ 中转站实测：真假、扣费对账、缓存命中、降智测试 | `实测排行` |
+| [火眼金睛识 AI](http://eagle.videogen.art/) | 纯前端处理，专项测试鉴别 Claude / OpenAI 是否被换模型 | `检测` |
+| [智知 API 纯度检测](https://github.com/businesszhizhiai/zhizhi-api-purity) | 开源的 API 纯度检测站，可自行部署，含接口稳定性记录 | `开源` |
+
 ## 🧭 AI 导航 · 比价 · 评测
 
-> 不知道选哪家？先上这些站比一比 —— 实时报价、渠道在线率、掺水率、跑路预警都在这儿。
-> **选站之前先看这里，比看任何推荐文都靠谱。**
+> 不知道选哪家？先上这些站比一比 —— 实时报价、渠道在线率、跑路预警都在这儿。
 
 | 名称 | 说明 | 标签 |
 | :--- | :--- | :--- |
 | [**TokenNav**](https://tokennav.cc/) ⭐ | 收录 200+ 中转站，含价格 / 支付方式 / 在线率对比 | `导航` |
-| [**禾维 AI**](https://www.hvoy.ai/) ⭐ | 中转站排名 + API 真假检测（查掺水率、延迟） | `排名+检测` |
 | [**PriceAI**](https://priceai.cc/) ⭐ | 低价卡网订阅与中转 API 比价雷达 | `比价` |
 | [**OpenPrice**](https://www.openprice.cc/card-products) ⭐ | 聚合 280+ 渠道商报价，含最低价与在售数 | `比价` |
 | [**Aibijia**](https://aibijia.org/) ⭐ | AI 订阅一键比价，帮你找便宜 Token | `比价` |
@@ -301,6 +316,7 @@ python tools/gen_site.py
 
 | 日期 | 内容 |
 | :--- | :--- |
+| 2026-10-16 | 新增 **🔬 AI API 检测 · 验真** 子分类（7 个检测站），专治「掉包降智」；站点总数 **87** 个 / 10 个子分类 |
 | 2026-10-16 | 经真实代理复核全部 **81 条**链接：**75 条可达**。标注 3 条疑似失效（梦幻API / Lucis API / FlyBit），修正极连云入口域名 |
 | 2026-10-16 | **重构为两大类**：🤖 AI 相关（61 个）+ 🌐 AI 无关 · 通用基础设施（20 个），共 81 个站点 / 9 个子分类；新增网络代理、网络工具、通用账号三节 |
 | 2026-10-16 | 项目初始化，收录 64 个站点；修正 `new-api` 迁移至 `QuantumNous/new-api`、`V3 API` 迁移至 `gpt.ge` |
